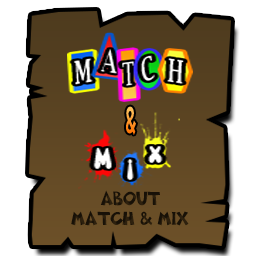
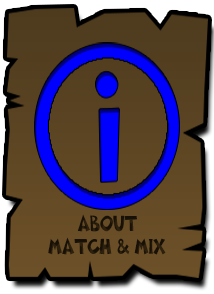
my little Update sa games

diff --git a/src/com/kokostudio/matchandmix/scene/MainMenuScene2.java b/src/com/kokostudio/matchandmix/scene/MainMenuScene2.java
@@ -24,9 +24,10 @@ public class MainMenuScene2 extends BaseScene {
 	private ButtonSprite matchitTextureRegion;
 	private ButtonSprite solveitTextureRegion;
 	private ButtonSprite CountitTextureRegion;
-	private ButtonSprite games;
+	private ButtonSprite howtoplay;
 	private ButtonSprite progress;
 	private ButtonSprite option;
+	private ButtonSprite exit;
 	private ButtonSprite next;
 	private ButtonSprite prev;
 	
@@ -79,9 +80,133 @@ public class MainMenuScene2 extends BaseScene {
 	}
 	
 	private void createMenuSelection() {
+		howtoplay = new ButtonSprite(180, 240, resourcesManager.howtoplayTextureRegion, vbom) {
+			@Override
+			public boolean onAreaTouched(TouchEvent pSceneTouchEvent, float pTouchAreaLocalX, float pTouchAreaLocalY) {
+				switch(pSceneTouchEvent.getAction()) {
+				case TouchEvent.ACTION_DOWN:
+					howtoplay.setScale(1.3f);
+					break;
+				case TouchEvent.ACTION_UP:
+					// load guess the missing letter scene
+					// and dispose the main menu scene
+				//	SceneManager.getInstance().loadGTMLScene();
+					howtoplay.setScale(1.f);
+					break;
+				}
+				
+				return super.onAreaTouched(pSceneTouchEvent, pTouchAreaLocalX, pTouchAreaLocalY);
+			}
+			
+		};
+		registerTouchArea(howtoplay);
+		attachChild(howtoplay);
 		
 		
-
+		//progress
+				about = new ButtonSprite(400, 240, resourcesManager.aboutTextureRegion, vbom) {
+					@Override
+					public boolean onAreaTouched(TouchEvent pSceneTouchEvent, float pTouchAreaLocalX, float pTouchAreaLocalY) {
+						switch(pSceneTouchEvent.getAction()) {
+						case TouchEvent.ACTION_DOWN:
+							about.setScale(1.3f);
+							break;
+						case TouchEvent.ACTION_UP:
+							// load guess the missing letter scene
+							// and dispose the main menu scene
+						//	SceneManager.getInstance().loadGTMLScene();
+							System.out.print("About MAtch and Mix!");
+							about.setScale(1.f);
+							break;
+						}
+						
+						return super.onAreaTouched(pSceneTouchEvent, pTouchAreaLocalX, pTouchAreaLocalY);
+					}
+					
+				};
+				registerTouchArea(about);
+				attachChild(about);
+				
+				
+				exit = new ButtonSprite(620, 240, resourcesManager.exitTextureRegion, vbom) {
+					@Override
+					public boolean onAreaTouched(TouchEvent pSceneTouchEvent, float pTouchAreaLocalX, float pTouchAreaLocalY) {
+						switch(pSceneTouchEvent.getAction()) {
+						case TouchEvent.ACTION_DOWN:
+							exit.setScale(1.3f);
+							break;
+						case TouchEvent.ACTION_UP:
+							// load guess the missing letter scene
+							// and dispose the main menu scene
+						//	SceneManager.getInstance().loadGTMLScene();
+							System.out.print("Thanks For Playing!");
+							System.exit(0);
+							
+							exit.setScale(1.f);
+							break;
+						}
+						
+						return super.onAreaTouched(pSceneTouchEvent, pTouchAreaLocalX, pTouchAreaLocalY);
+					}
+					
+				};
+				registerTouchArea(exit);
+				attachChild(exit);
+				
+				
+				
+				
+				
+				//Next
+			/*	next = new ButtonSprite(760, 220, resourcesManager.nextTextureRegion, vbom) {
+					@Override
+					public boolean onAreaTouched(TouchEvent pSceneTouchEvent, float pTouchAreaLocalX, float pTouchAreaLocalY) {
+						switch(pSceneTouchEvent.getAction()) {
+						case TouchEvent.ACTION_DOWN:
+							next.setScale(1.3f);
+							break;
+						case TouchEvent.ACTION_UP:
+							// load guess the missing letter scene
+							// and dispose the main menu scene
+							//SceneManager.getInstance().loadnextScene();
+							next.setScale(1.f);
+							break;
+						}
+						
+						return super.onAreaTouched(pSceneTouchEvent, pTouchAreaLocalX, pTouchAreaLocalY);
+					}
+					
+				};
+				registerTouchArea(next);
+				attachChild(next);
+				*/
+				
+				
+				
+				//Previous
+						prev = new ButtonSprite(40, 220, resourcesManager.PrevTextureRegion, vbom) {
+							@Override
+							public boolean onAreaTouched(TouchEvent pSceneTouchEvent, float pTouchAreaLocalX, float pTouchAreaLocalY) {
+								switch(pSceneTouchEvent.getAction()) {
+								case TouchEvent.ACTION_DOWN:
+									prev.setScale(1.3f);
+									break;
+								case TouchEvent.ACTION_UP:
+									// load guess the missing letter scene
+									// and dispose the main menu scene
+									SceneManager.getInstance().loadMainMenuScene();
+									prev.setScale(1.f);
+									break;
+								}
+								
+								return super.onAreaTouched(pSceneTouchEvent, pTouchAreaLocalX, pTouchAreaLocalY);
+							}
+							
+						};
+						registerTouchArea(prev);
+						attachChild(prev);
+						menuheader = new Sprite(400, 430, resourcesManager.menuheaderTextureRegion, vbom);
+						attachChild(menuheader);
 			}
 	
 }

diff --git a/src/com/kokostudio/matchandmix/manager/ResourcesManager.java b/src/com/kokostudio/matchandmix/manager/ResourcesManager.java
@@ -67,6 +67,8 @@ public class ResourcesManager {
 	public ITextureRegion menuheaderTextureRegion;
 	public ITextureRegion ProgressTextureRegion;
 	public ITextureRegion OptionTextureRegion;
+	public ITextureRegion howtoplayTextureRegion;
+	public ITextureRegion exitTextureRegion;
 	public ITextureRegion nextTextureRegion;
 	public ITextureRegion PrevTextureRegion;
 
@@ -183,6 +185,9 @@ public class ResourcesManager {
 		menuheaderTextureRegion = BitmapTextureAtlasTextureRegionFactory.createFromAsset(mainMenuTextureAtlas, activity, "menu_header.png");
 		ProgressTextureRegion = BitmapTextureAtlasTextureRegionFactory.createFromAsset(mainMenuTextureAtlas, activity, "progress_btn.png");
 		OptionTextureRegion = BitmapTextureAtlasTextureRegionFactory.createFromAsset(mainMenuTextureAtlas, activity, "option_btn.png");
+		howtoplayTextureRegion = BitmapTextureAtlasTextureRegionFactory.createFromAsset(mainMenuTextureAtlas, activity, "how_btn.png");
+		aboutTextureRegion = BitmapTextureAtlasTextureRegionFactory.createFromAsset(mainMenuTextureAtlas, activity, "about_btn.png");
+		exitTextureRegion = BitmapTextureAtlasTextureRegionFactory.createFromAsset(mainMenuTextureAtlas, activity,"exit_btn.png");
 		nextTextureRegion = BitmapTextureAtlasTextureRegionFactory.createFromAsset(mainMenuTextureAtlas, activity, "next_btn.png");
 		PrevTextureRegion = BitmapTextureAtlasTextureRegionFactory.createFromAsset(mainMenuTextureAtlas, activity, "prev_btn.png");
 		try {
